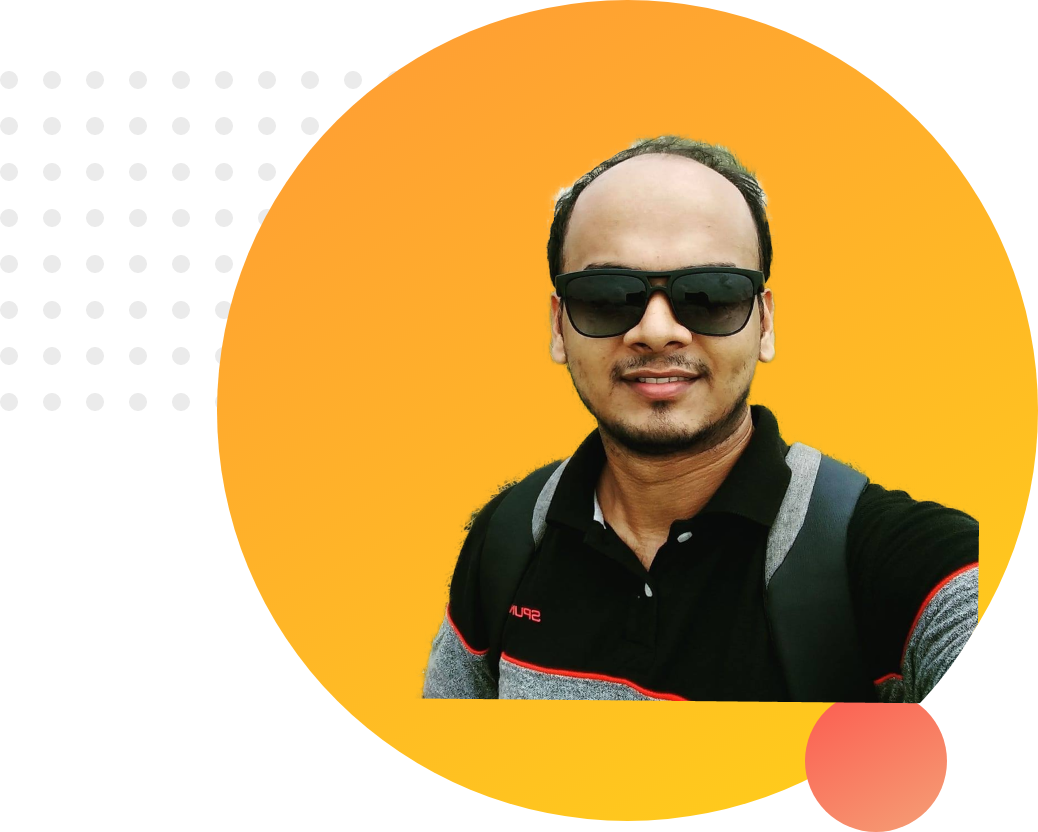
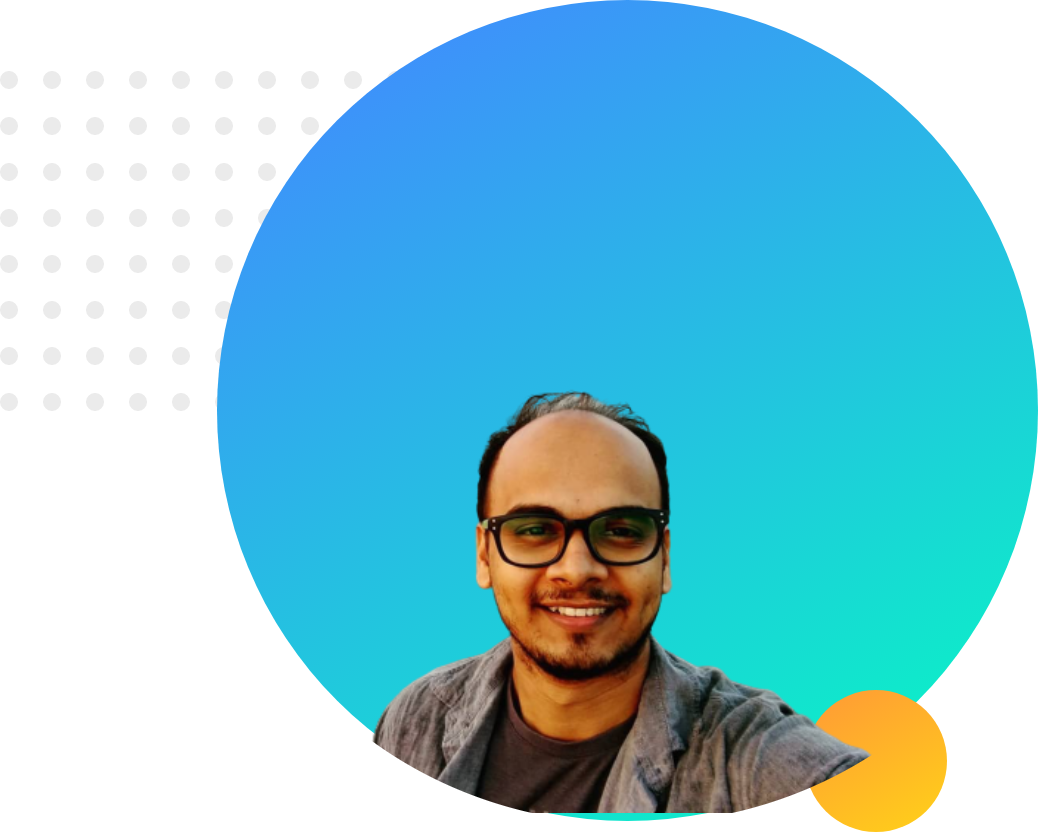
finished my first ever website

diff --git a/index.html b/index.html
@@ -9,17 +9,49 @@
     <link rel="stylesheet" href="style.css">
 </head>
 <body>
-    <section>
+    <section class="top-banner">
         <div class="half-width">
             <h1>Welcome To</h1>
-            <h1><span class="name-highlight">Kazal</span> Website</h1>
+            <h1><span class="orange-highlight">Kazal</span> Website</h1>
             <h3>World-class professional web dev</h3>
             <p>You might see the profile of kazal. So he is a world class web developer. He love to learn web dev projects and building new things. Now he is trying to learn how to build a professional website.</p>
+            <a class="link-button" target="blank" href="https://www.linkedin.com/feed/">HIRE ME</a>
         </div>
         <div class="half-width">
             <img src="images/profile1.png" alt="">
         </div>
     
     </section>
+
+    <section class="dream-area">
+        <div class="half-width">
+            <img src="images/profile2.png" alt="">
+
+        </div>
+        <div class="half-width">
+            <h2>Big Dream</h2>
+            <h3>Becomes world class developer</h3>
+            <p>Now I am learnig about basic of web dev. In future i am able to do any web dev job in globally. Basically i want do in remote job. Because its versy benificial for developers.</p>
+            <a class="link-button" target="blank" href="https://github.com/">DOWNLOAD RESUME</a>
+        </div>
+    </section>
+
+    <section class="experience-area">
+        <h2>Experience</h2>
+        <div id="full-stack" class="half-width single-experience">
+            <h2>Full Stack Web Dev</h2>
+            <h3 class="orange-highlight">2021 - Present | Pro level Web Dev</h3>
+            <p>I am the master of HTML, CSS AND Javascript. I know to needed to make a website funciton, efficiently. In the web I made backend in most popular Javascript framewrok call node js. </p>
+        </div>
+        <div id="baby-web" class="half-width single-experience">
+            <h2>Baby Web Dev</h2>
+            <h3 class="orange-highlight">2020 - 2021 | Programming hero learner</h3>
+            <p>I am the master of HTML, CSS AND Javascript. I know to needed to make a website funciton, efficiently. In the web I made backend in most popular Javascript framewrok call node js.</p>
+        </div>
+
+    </section>
+    <footer>
+        <p>@ Kazal 2021, all rights reserved.</p>
+    </footer>
 </body>
 </html>

diff --git a/style.css b/style.css
@@ -1,4 +1,5 @@
 body{
+    margin: 0;
     font-family: 'Poppins', sans-serif;
 
 }
@@ -6,7 +7,13 @@ body{
 h1{
     font-size: 40px;
 }
-.name-highlight{
+h2{
+    font-size: 30px;
+}
+p{
+    color: dimgray;
+}
+.orange-highlight{
     color: orange;
 }
 .half-width{
@@ -17,4 +24,50 @@ h1{
 }
 .half-width img{
     width: 100%;
+}
+.top-banner{
+    background-image: url("images/top-banner.png");
+    background-repeat: no-repeat;
+}
+section{
+    height: 500px;
+    padding-bottom: 50px;
+}
+.link-button{
+    text-decoration: none; 
+    background-image: linear-gradient(45deg, lightSalmon,tomato);
+    padding: 10px 20px;
+    border-radius: 5px;
+    color: white;
+    font-weight: 700;
+}
+.dream-area{
+    background-image: url("images/dream-bg.png");
+    background-repeat: no-repeat;
+    background-position: right;
+}
+.single-experience{
+    box-shadow: 10px 10px 40px gray;
+    border-radius: 10px;
+    height: 70%;
+    background-color: white;
+}
+.experience-area{
+    background-image: url("images/exp-bg.png");
+    background-repeat: no-repeat;
+    background-position: left;
+}
+#full-stack{
+    border-left: 7px solid;
+    border-image: linear-gradient(180deg, lightSalmon,tomato);
+    border-image-slice: 1;
+}
+#baby-web{
+    border-left: 7px solid;
+    border-image: linear-gradient(180deg, blue, cyan);
+    border-image-slice: 1;
+}
+footer{
+    text-align: center;
+    font-size: 12px;
 }
